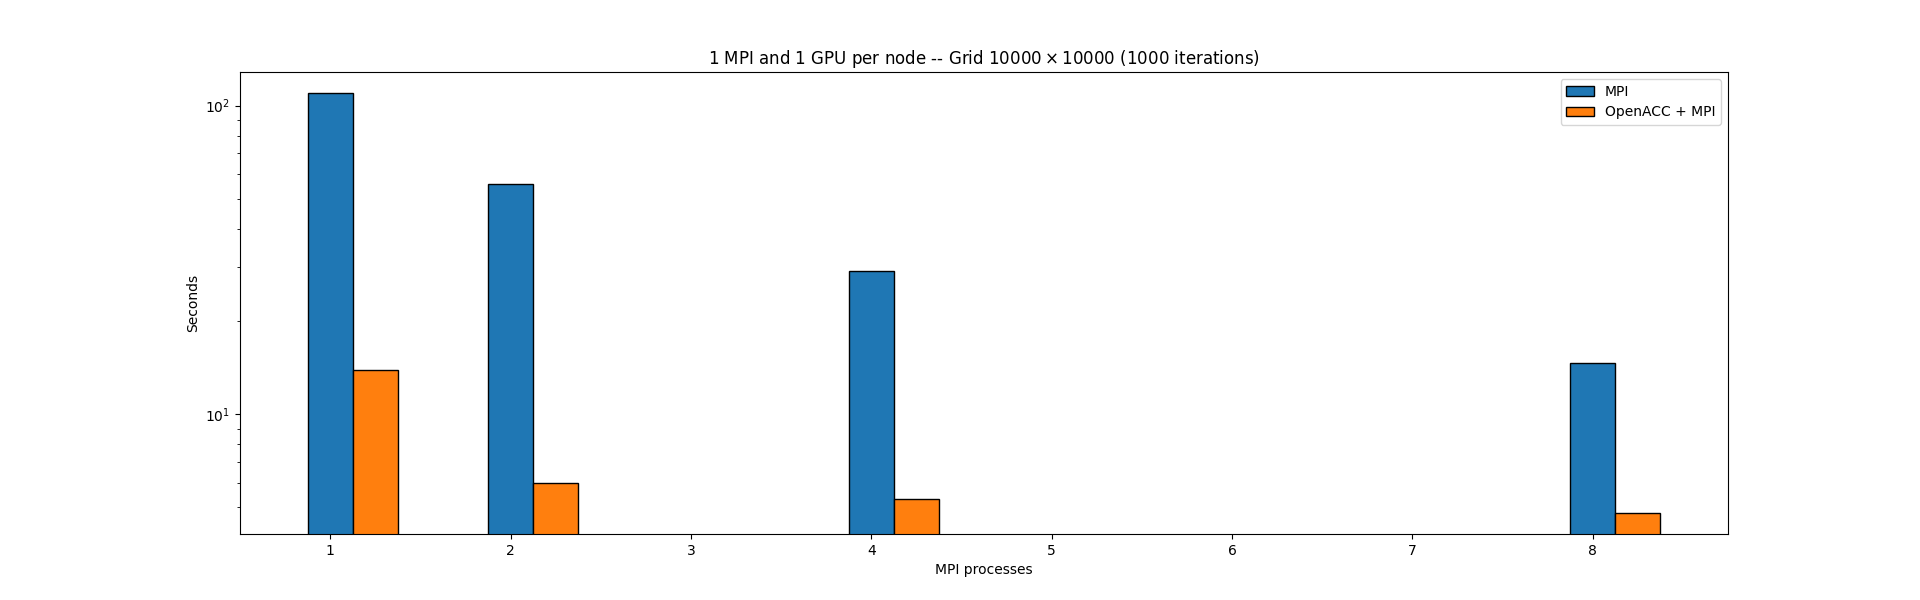
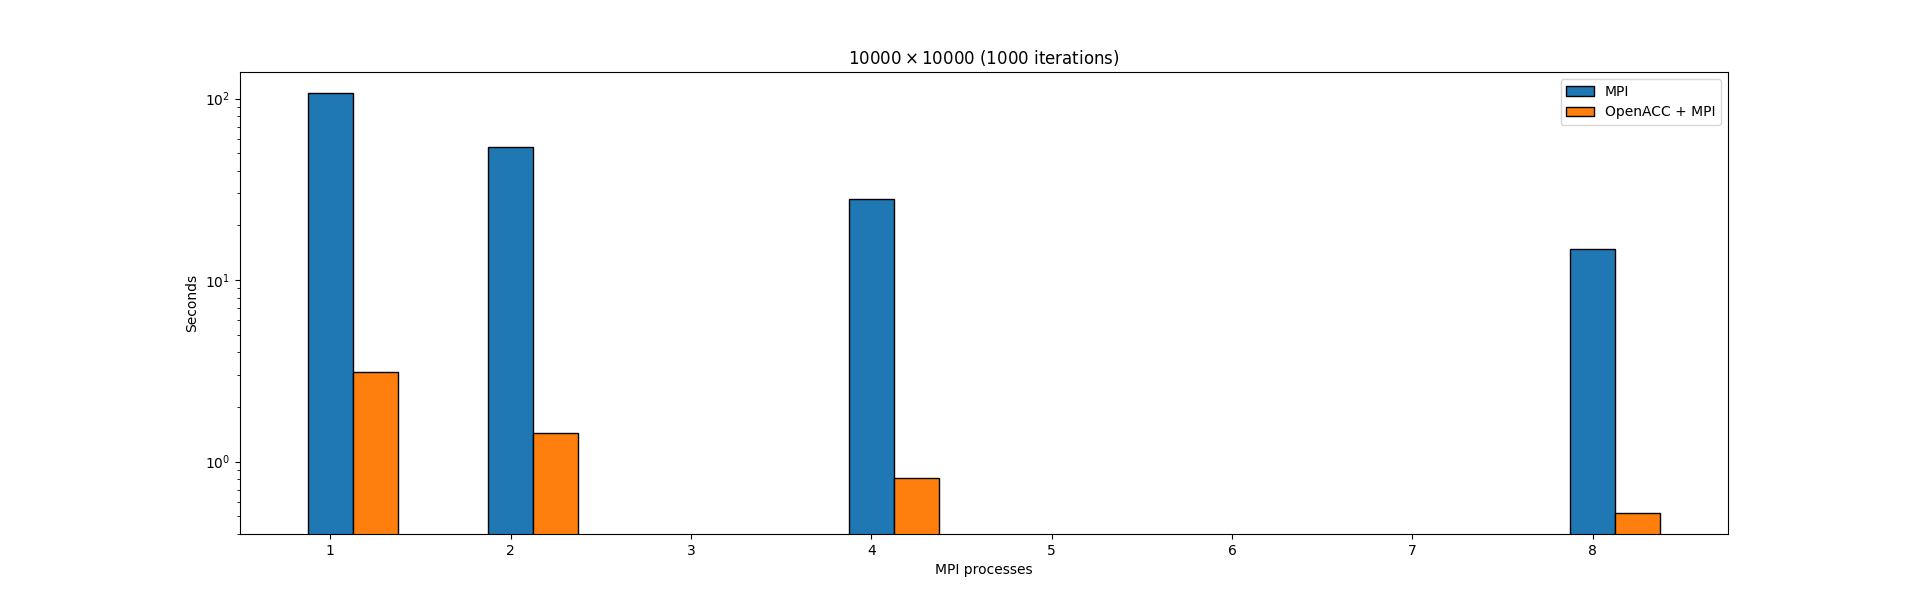
update img

diff --git a/jacobi/data_analysis/plot_time.py b/jacobi/data_analysis/plot_time.py
@@ -33,7 +33,7 @@ plt.bar(
 plt.ylabel("Seconds")
 plt.xlabel("MPI processes")
 
-plt.title("1 MPI and 1 GPU per node -- Grid $10000 \\times 10000$ (1000 iterations)")
+plt.title("$10000 \\times 10000$ (1000 iterations)")
 plt.legend()
 
 plt.yscale("log")
